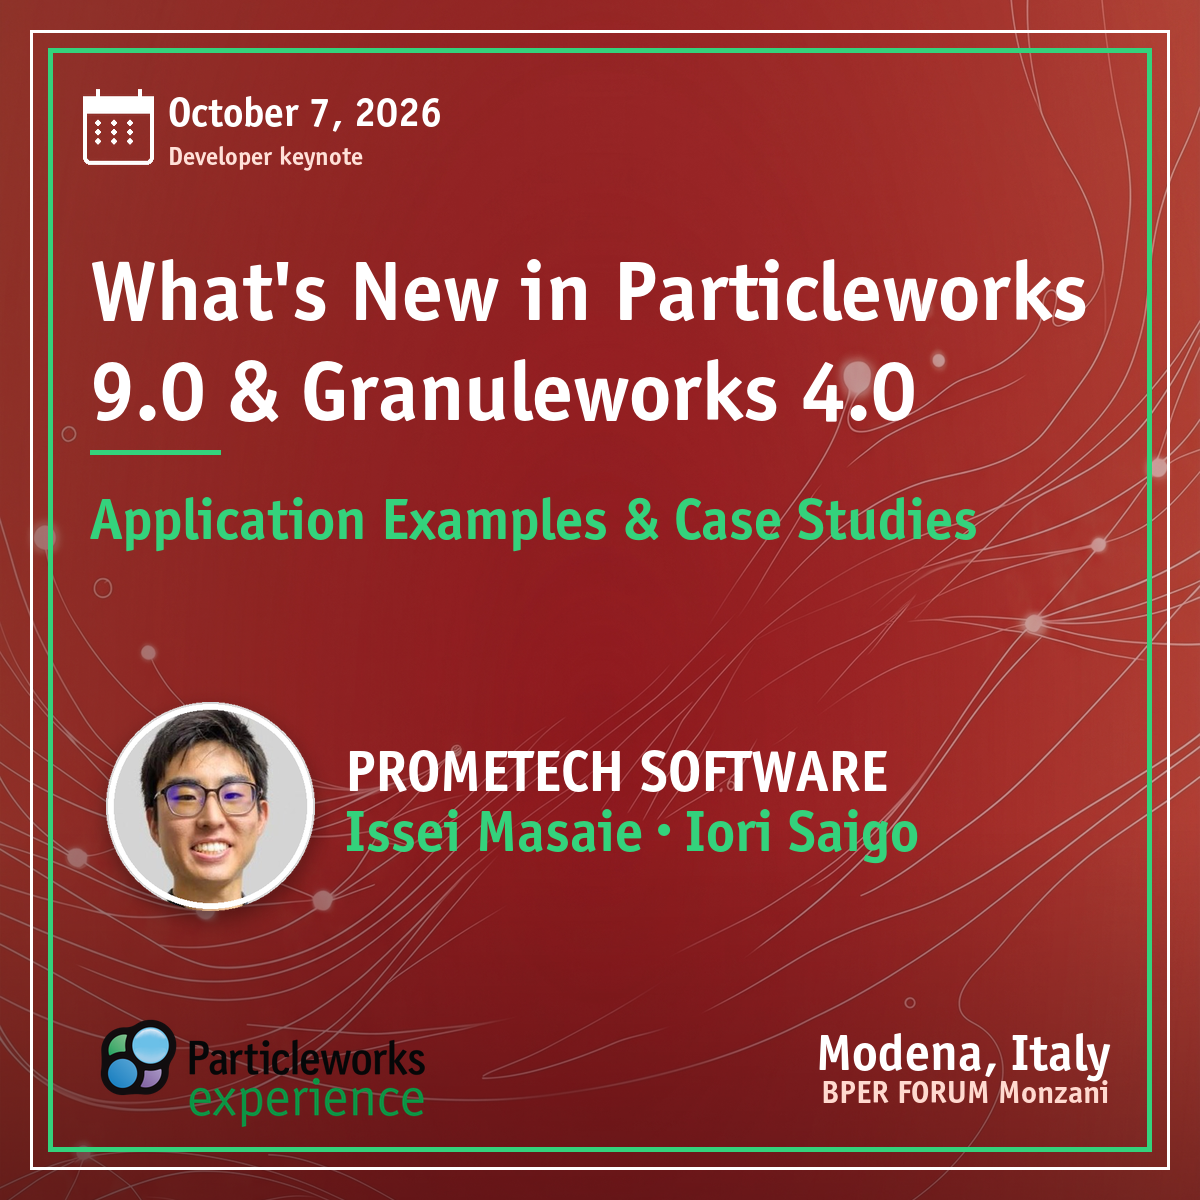
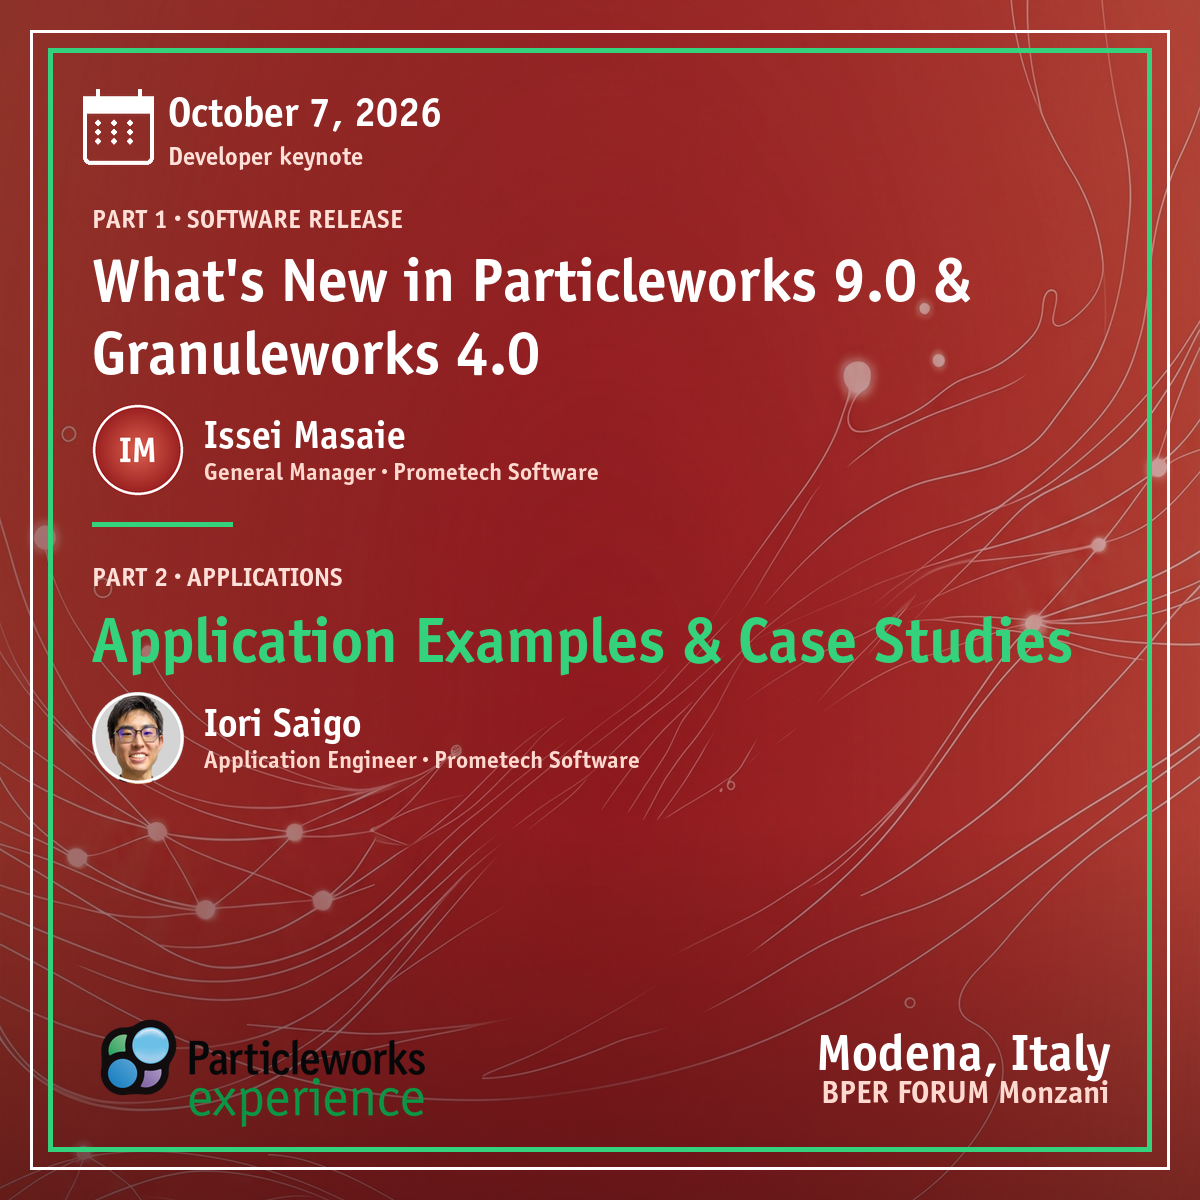
experience/2026: card-01 keynote — pair each title with its speaker
Two-segment Prometech keynote card: Issei Masaie (initials avatar) →
"What's New in Particleworks 9.0 & Granuleworks 4.0"; Iori Saigo
(photo) → "Application Examples & Case Studies", each with role.
New render_keynote() routes card-01; generates IM initials avatar.

Changed region(s): [[0.0617, 0.1542, 0.925, 0.7708], [0.0925, 0.1542, 0.1233, 0.185]]

diff --git a/experience/cards/cards_build.py b/experience/cards/cards_build.py
@@ -196,6 +196,32 @@ def render_general(fname="card-00-program.png"):
     d.text((VEN_RIGHT-f(VEN2_PX).getlength(L2),VEN2_Y),L2,font=f(VEN2_PX),fill=SUBLOC)
     im.convert("RGB").save(os.path.join(OUT,fname),"PNG"); print("png",fname)
 
+# ---------- Prometech keynote: two title+speaker segments ----------
+def render_keynote(c):
+    im=Image.open(os.path.join(PROC,"bg_square.png")).convert("RGBA"); d=ImageDraw.Draw(im)
+    d.rectangle([30,30,S-31,S-31],outline=WHITE,width=3); d.rectangle([48,48,S-49,S-49],outline=GREEN,width=5)
+    cal=Image.open(os.path.join(PROC,"cal.png")).resize((CAL_W,CAL_H),Image.LANCZOS); im.alpha_composite(cal,CAL_POS)
+    d=ImageDraw.Draw(im)
+    d.text(DATE_POS,c["date"],font=f(DATE_PX),fill=WHITE); d.text(CAT_POS,c["cat"],font=f(CAT_PX),fill=SUB)
+    segs=[("PART 1 · SOFTWARE RELEASE",c["title"],"av_IM.png","Issei Masaie","General Manager · Prometech Software",WHITE),
+          ("PART 2 · APPLICATIONS",c["title2"],"av_iori-saigo.png","Iori Saigo","Application Engineer · Prometech Software",GREEN)]
+    starts=[202,560]
+    for (kick,title,av,name,role,col),sy in zip(segs,starts):
+        d.text((92,sy),kick,font=f(27),fill=SUB)
+        tf,lines,lh=fit_title(title,maxh=150,minpx=44); ty=sy+40
+        for ln in lines: d.text((92,ty),ln,font=tf,fill=col); ty+=lh
+        avd=92; ay=ty+16
+        avi=Image.open(os.path.join(PROC,av)).convert("RGBA").resize((avd,avd),Image.LANCZOS); im.alpha_composite(avi,(92,ay))
+        tx=92+avd+20
+        d.text((tx,ay+6),name,font=fit(name,360,40,lo=30),fill=WHITE)
+        d.text((tx,ay+52),role,font=f(25),fill=SUBLOC)
+    d.line([(92,524),(232,524)],fill=GREEN,width=5)
+    lg=Image.open(LOGO).convert("RGBA"); lg=lg.resize((LOGO_W,int(lg.size[1]*LOGO_W/lg.size[0])),Image.LANCZOS)
+    im.alpha_composite(lg,(LOGO_X,LOGO_Y))
+    d.text((VEN_RIGHT-f(VEN1_PX).getlength(L1),VEN1_Y),L1,font=f(VEN1_PX),fill=WHITE)
+    d.text((VEN_RIGHT-f(VEN2_PX).getlength(L2),VEN2_Y),L2,font=f(VEN2_PX),fill=SUBLOC)
+    im.convert("RGB").save(os.path.join(OUT,c["file"]),"PNG"); print("png",c["file"],"(keynote)")
+
 # ---------- carousel slide 2: speaker profiles + company tags ----------
 SPEAKERS=[("iori-saigo","Iori Saigo","Prometech Software"),
  ("alpcan-guray","Alpcan Güray","MTU Aero Engines"),
@@ -316,12 +342,13 @@ if __name__=="__main__":
     for key,fn in PHOTOS.items():
         # original photo, no background removal (handled downstream by the user)
         make_avatar("photo",os.path.join(SPK,fn)).save(os.path.join(PROC,"av_"+key+".png"))
+    make_avatar("ini","IM").save(os.path.join(PROC,"av_IM.png"))   # Issei Masaie — initials avatar
     make_sim(os.path.join(PROC,"skf.png"),os.path.join(PROC,"sim_skf.png"))
     make_sim(os.path.join(PROC,"deepfluid.png"),os.path.join(PROC,"sim_deepfluid.png"))
     make_sim(os.path.join(PROC,"univance.png"),os.path.join(PROC,"sim_univance.png"))
     print("assets ready")
     render_general()
     render_speakers()
-    for c in cards: render_png(c)
+    for c in cards: (render_keynote(c) if c["file"]=="card-01-prometech.png" else render_png(c))
     build_pptx(cards)
     print("ALL DONE")
